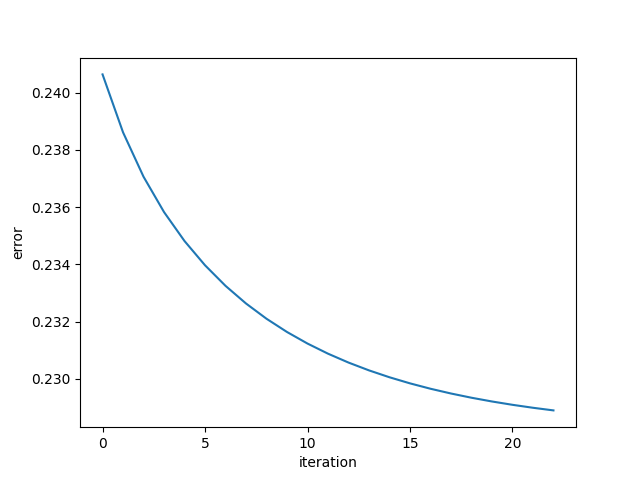
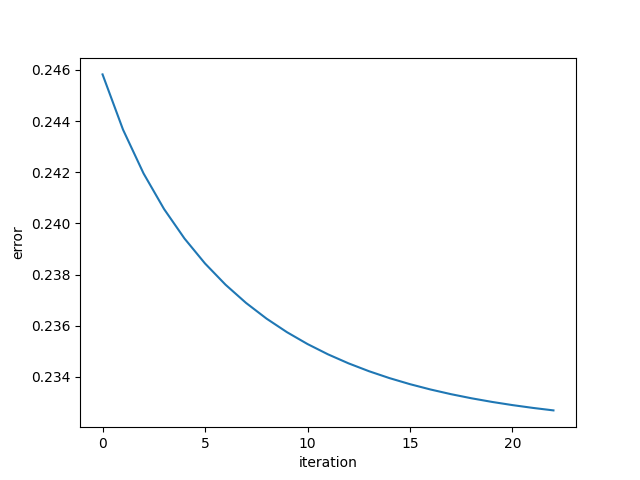
docs done for real

diff --git a/S8_SS2022/AGML_Lab/final_project/documentation/docs.tex b/S8_SS2022/AGML_Lab/final_project/documentation/docs.tex
@@ -335,8 +335,8 @@ Root mean squared error (rmse) and mean absolute error (mae) were calculated.
 		Recommender   & rmse  & mae   \\\hline\hline
 		user based    & 0.670 & 0.301 \\\hline
 		item based    & 0.569 & 0.222 \\\hline
-		factorization & 0.559 & 0.233 \\\hline
-		hybrid        & 0.513 & 0.202 \\\hline
+		factorization & 0.512 & 0.207 \\\hline
+		hybrid        & 0.496 & 0.193 \\\hline
 	\end{tabular}
 	\caption{Error scores}\label{tab:errors}
 \end{table}

diff --git a/S8_SS2022/AGML_Lab/final_project/README.md b/S8_SS2022/AGML_Lab/final_project/README.md
@@ -2,6 +2,10 @@
 
 Here, Maurice Wenig is trying to implement a good Recommender System for the final project of AGML (Statistical Learning Theory) Lab.
 
+## Final Score
+
+My final score on the [validation set](http://csujena.pythonanywhere.com/) is 0.530. It was achieved with the hybrid recommender.
+
 ## Usage
 
 Run main: `python src/main.py`. Testing all recommenders: `python src/testall.py`. Example results (rounded predictions):
